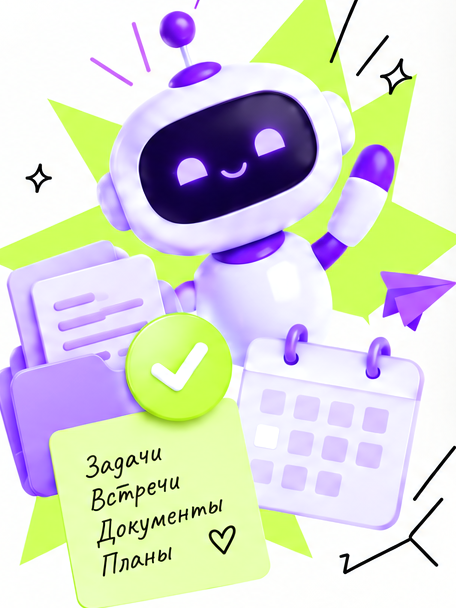
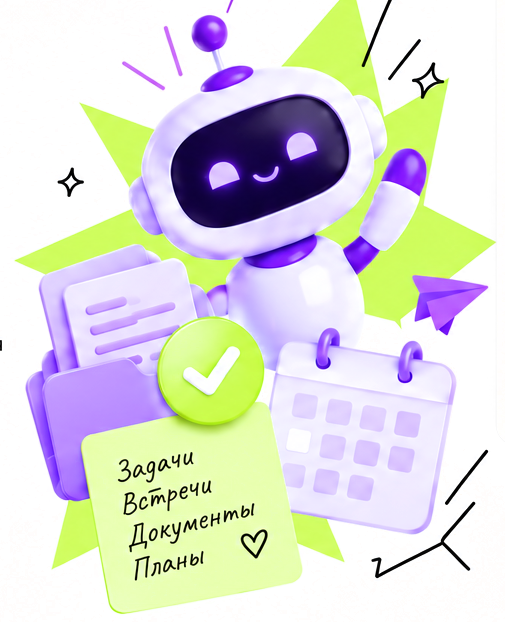
карточки действий с рисунками, декор на странице входа
Карточки на главной теперь как в макете: плитка с рисунком, крупный
заголовок и росчерки, два ряда по две. Рисунки и декор вырезаны на
прозрачном фоне, поэтому вокруг них больше нет светлых прямоугольников.
Боковое меню помещается в невысокое окно: картинка уменьшается или
прячется, профиль всегда виден внизу.

diff --git a/static/style.css b/static/style.css
@@ -552,16 +552,81 @@ dialog h3 { margin: 0 0 10px; font-size: 22px; }
 .hero { grid-template-columns: minmax(0, 1fr) minmax(0, 330px); }
 .dialog { max-height: 240px; }
 .home > .col:first-child { container-type: inline-size; }
-@container (min-width: 760px) {
-  .actions { grid-template-columns: repeat(4, minmax(0, 1fr)) !important; }
-}
 @container (min-width: 700px) {
   .bottom { grid-template-columns: minmax(0, 1.5fr) minmax(0, 1fr) !important; }
 }
 .row .title { flex-wrap: nowrap; }
 .row .title .t { white-space: nowrap; }
 .row { gap: 10px; }
-.action b { font-size: 14px; letter-spacing: -0.01em; overflow-wrap: normal; }
-.action { column-gap: 10px; }
-.action .ico { width: 44px; height: 44px; }
 .row .title .t { white-space: normal; overflow: visible; text-overflow: clip; line-height: 1.25; }
+
+/* карточки действий как в макете: плитка с рисунком, крупный заголовок, росчерки.
+   Фон карточек — точные цвета макета, рисунки вырезаны на прозрачном фоне */
+.actions { grid-template-columns: repeat(2, minmax(0, 1fr)) !important; gap: 16px; }
+.action {
+  display: flex; align-items: center; gap: 18px; padding: 16px 20px 16px 16px; min-height: 150px;
+  border-radius: 28px; border: 0; isolation: isolate;
+}
+.action.lime { background: #d5fa44; }
+.action.violet { background: #e6a6fb; }
+.action.cream { background: #fbf6f1; box-shadow: inset 0 0 0 1px #efe6e0; }
+.action .art { flex: none; width: 124px; height: auto; border-radius: 0; background: none; object-fit: contain; }
+.action .txt { position: relative; z-index: 1; min-width: 0; }
+.action b { display: block; font-size: clamp(19px, 1.55vw, 25px); line-height: 1.05; font-weight: 900; letter-spacing: -.035em; }
+.action .sub { display: block; margin-top: 8px; padding: 0; font-size: clamp(13.5px, 1.05vw, 16px); line-height: 1.25; }
+.action.lime .sub { color: #6c7d2a; }
+.action.violet .sub { color: #7a5596; }
+.action.cream .sub { color: #6b6580; }
+.action .deco { position: absolute; z-index: 0; height: auto; pointer-events: none; }
+.action .act-remind-ticks { width: 32px; right: 34px; top: 14px; }
+.action .act-remind-deco { width: 78px; right: 16px; bottom: 14px; }
+.action .act-task-deco { width: 92px; right: 14px; top: 14px; }
+.action .act-meet-deco { width: 54px; right: 12px; top: 50%; transform: translateY(-30%); }
+.action .act-cal-deco { width: 30px; right: 22px; top: 50%; transform: translateY(-60%); }
+@container (max-width: 640px) {
+  .actions { grid-template-columns: minmax(0, 1fr) !important; }
+}
+@media (max-width: 860px) {
+  .action { min-height: 120px; }
+  .action .art { width: 96px; }
+  .action b { font-size: 21px; }
+}
+
+/* боковое меню всегда помещается в окно: картинка ужимается, профиль виден */
+.sidebar { overflow-y: auto; overscroll-behavior: contain; }
+.promo { flex: 0 1 auto; min-height: 0; display: flex; align-items: flex-end; justify-content: center; }
+.promo img { max-height: 100%; width: auto; max-width: 190px; object-fit: contain; }
+.profile { flex: none; }
+.profile .who { white-space: nowrap; overflow: hidden; text-overflow: ellipsis; }
+.profile .who small, .profile .who span { white-space: nowrap; overflow: hidden; text-overflow: ellipsis; display: block; }
+@media (max-height: 820px) { .promo img { max-width: 150px; } .brand { padding-bottom: 12px; } .nav a { padding: 10px 16px; } }
+@media (max-height: 700px) { .promo { display: none; } }
+
+/* вход и регистрация: фон и декор как в макете, рисунки без рамок */
+body:has(.auth) { background: #fcfaf5; }
+.auth { isolation: isolate; }
+.auth-art { max-width: 505px; width: 100%; height: auto; justify-self: center; margin: -40px -40px 0 -80px; }
+.auth-art[data-mode="register"] { max-width: 406px; margin: 0; }
+.adeco { position: absolute; z-index: -1; height: auto; pointer-events: none; }
+.d-squiggle { width: 150px; left: 37%; top: 11%; }
+.d-mini { width: 72px; left: 3%; top: 18%; }
+.d-slogan { width: 180px; left: 6%; bottom: 3%; }
+.d-squiggle2 { width: 150px; right: 2%; bottom: 4%; }
+.form-card { position: relative; }
+.form-card .d-star { width: 190px; right: -36px; top: -58px; }
+.form-card h2 { position: relative; }
+.form-card h2 .d-ticks { position: absolute; width: 44px; height: auto; margin-left: 8px; top: -18px; }
+@media (max-width: 980px) {
+  .adeco { display: none; }
+  .form-card h2 .d-ticks { display: none; }
+}
+.auth-left { grid-template-columns: minmax(0, 1fr); }
+.auth-left > div { position: relative; z-index: 1; }
+.auth-art, .auth-art[data-mode="register"] { position: absolute; z-index: 0; margin: 0; left: min(340px, 52%); top: 230px; width: min(370px, 56%); }
+.d-mini { left: 2%; top: 30%; }
+@media (max-width: 1180px) { .auth-art, .auth-art[data-mode="register"] { left: 56%; width: 44%; } }
+.auth-art[data-mode="register"] { top: 300px; width: min(330px, 50%); }
+.action .deco, .action .art { background: none; border-radius: 0; height: auto; box-shadow: none; }
+.action .txt, .action b { color: var(--ink); margin: 0; padding: 0; }
+.profile .who span { font-size: 11.5px; letter-spacing: -.01em; }
+.profile { margin-top: auto; gap: 8px; padding-left: 4px; padding-right: 0; }

diff --git a/static/index.html b/static/index.html
@@ -7,7 +7,7 @@
   <link rel="preconnect" href="https://fonts.googleapis.com">
   <link rel="preconnect" href="https://fonts.gstatic.com" crossorigin>
   <link href="https://fonts.googleapis.com/css2?family=Onest:wght@400;500;600;700;800;900&display=swap" rel="stylesheet">
-  <link rel="stylesheet" href="/static/style.css?v=23">
+  <link rel="stylesheet" href="/static/style.css?v=29">
 </head>
 <body>
   <div class="app">
@@ -82,25 +82,26 @@
             </div>
 
             <div class="actions">
-              <button class="action violet" data-prefill="Поставь задачу ">
-                <span class="ico"><svg class="icon"><use href="/static/icons.svg#tasks"/></svg></span>
-                <b>Создать<br>задачу</b>
-                <span class="sub">Добавить задачу<br>с голосом или текстом</span>
-              </button>
-              <button class="action" data-prefill="Добавь встречу ">
-                <span class="ico"><svg class="icon"><use href="/static/icons.svg#users"/></svg></span>
-                <b>Запланировать<br>встречу</b>
-                <span class="sub">Указать дату, время<br>и участников</span>
-              </button>
               <button class="action lime" data-prefill="Напомни ">
-                <span class="ico"><svg class="icon"><use href="/static/icons.svg#bell"/></svg></span>
-                <b>Поставить<br>напоминание</b>
-                <span class="sub">Не пропусти<br>важное</span>
+                <img class="art" src="/static/img/act-remind.webp" alt="" width="375" height="370">
+                <span class="txt"><b>Поставить<br>напоминание</b><span class="sub">Не пропусти<br>важное</span></span>
+                <img class="deco act-remind-ticks" src="/static/img/act-remind-ticks.webp" alt="" width="99" height="125">
+                <img class="deco act-remind-deco" src="/static/img/act-remind-deco.webp" alt="" width="237" height="130">
               </button>
-              <button class="action" data-go="#/calendar">
-                <span class="ico"><svg class="icon"><use href="/static/icons.svg#calendar"/></svg></span>
-                <b>Открыть<br>календарь</b>
-                <span class="sub">Все события<br>в одном месте</span>
+              <button class="action violet" data-prefill="Поставь задачу ">
+                <img class="art" src="/static/img/act-task.webp" alt="" width="380" height="337">
+                <span class="txt"><b>Создать<br>задачу</b><span class="sub">Добавить задачу<br>с голосом или текстом</span></span>
+                <img class="deco act-task-deco" src="/static/img/act-task-deco.webp" alt="" width="286" height="196">
+              </button>
+              <button class="action cream" data-prefill="Добавь встречу ">
+                <img class="art" src="/static/img/act-meet.webp" alt="" width="406" height="381">
+                <span class="txt"><b>Запланировать<br>встречу</b><span class="sub">Указать дату, время<br>и участников</span></span>
+                <img class="deco act-meet-deco" src="/static/img/act-meet-deco.webp" alt="" width="174" height="195">
+              </button>
+              <button class="action cream" data-go="#/calendar">
+                <img class="art" src="/static/img/act-cal.webp" alt="" width="425" height="381">
+                <span class="txt"><b>Открыть<br>календарь</b><span class="sub">Все события<br>в одном месте</span></span>
+                <img class="deco act-cal-deco" src="/static/img/act-cal-deco.webp" alt="" width="101" height="143">
               </button>
             </div>
 
@@ -202,6 +203,6 @@
     </div>
   </div>
 
-  <script src="/static/app.js?v=23"></script>
+  <script src="/static/app.js?v=29"></script>
 </body>
 </html>

diff --git a/static/auth.html b/static/auth.html
@@ -7,11 +7,15 @@
   <link rel="preconnect" href="https://fonts.googleapis.com">
   <link rel="preconnect" href="https://fonts.gstatic.com" crossorigin>
   <link href="https://fonts.googleapis.com/css2?family=Onest:wght@400;500;600;700;800;900&family=Caveat:wght@700&display=swap" rel="stylesheet">
-  <link rel="stylesheet" href="/static/style.css?v=23">
+  <link rel="stylesheet" href="/static/style.css?v=29">
 </head>
 <body>
   <main class="auth">
     <span class="lang" title="Интерфейс на русском">RU</span>
+    <img class="adeco d-squiggle" src="/static/img/deco-squiggle.webp" alt="" width="192" height="150">
+    <img class="adeco d-mini" src="/static/img/deco-mini.webp" alt="" width="92" height="42">
+    <img class="adeco d-slogan" src="/static/img/deco-slogan.webp" alt="" width="225" height="143">
+    <img class="adeco d-squiggle2" src="/static/img/deco-squiggle2.webp" alt="" width="185" height="140">
 
     <section class="auth-left">
       <a class="brand" href="/login">
@@ -31,14 +35,15 @@
           <li><span class="ico"><svg class="icon"><use href="/static/icons.svg#sparkle"/></svg></span>Все инструменты<br>в одном месте</li>
         </ul>
       </div>
-      <img class="auth-art blend" data-mode="login" src="/static/img/auth-login.webp" alt="" width="456" height="608">
-      <img class="auth-art blend" data-mode="register" src="/static/img/auth-register.webp" alt="" width="406" height="550" hidden>
+      <img class="auth-art" data-mode="login" src="/static/img/auth-login.webp" alt="" width="505" height="622">
+      <img class="auth-art" data-mode="register" src="/static/img/auth-register.webp" alt="" width="406" height="550" hidden>
     </section>
 
     <section class="card form-card">
+      <img class="adeco d-star" src="/static/img/deco-star.webp" alt="" width="218" height="68">
       <!-- вход -->
       <form id="loginForm" data-mode="login" novalidate>
-        <h2>Добро пожаловать!</h2>
+        <h2>Добро пожаловать!<img class="d-ticks" src="/static/img/deco-ticks.webp" alt="" width="66" height="82"></h2>
         <p class="hint">Войдите в свой аккаунт, чтобы продолжить работу с ассистентом</p>
         <div class="form-error" hidden></div>
         <label class="field">
@@ -125,6 +130,6 @@
     <form method="dialog"><button class="btn primary">Понятно</button></form>
   </dialog>
 
-  <script src="/static/auth.js?v=23"></script>
+  <script src="/static/auth.js?v=29"></script>
 </body>
 </html>
